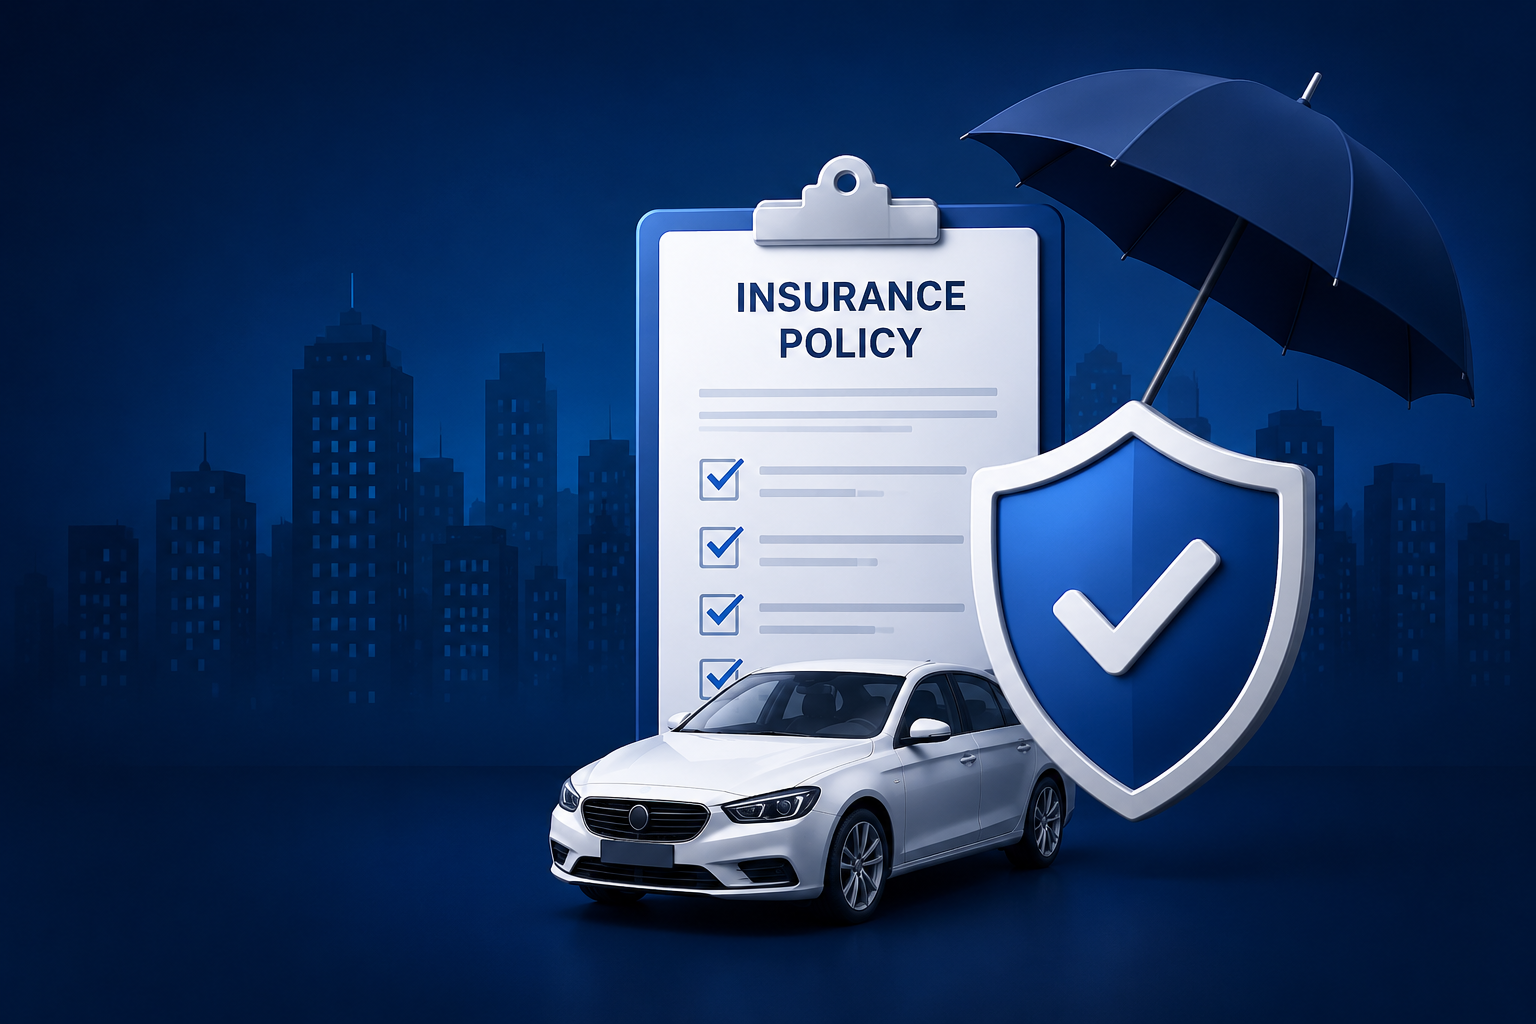
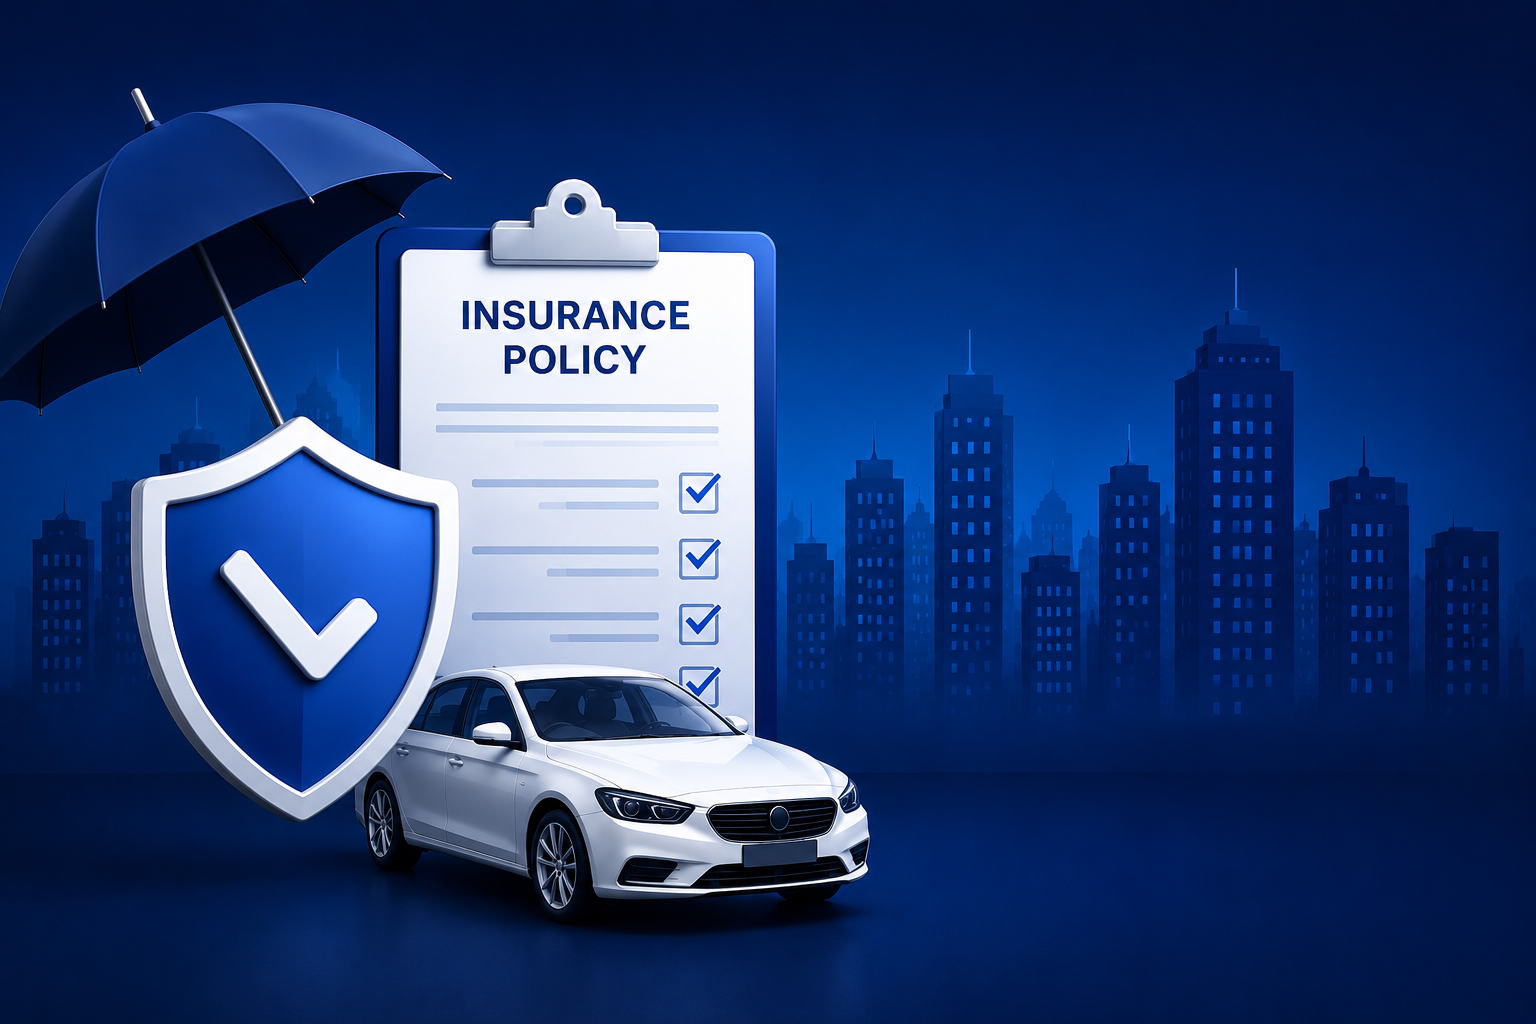
agents page updated

diff --git a/app/(Admin)/Agents/page.tsx b/app/(Admin)/Agents/page.tsx
@@ -1,5 +1,88 @@
-export default function Agents(){
-    return(
-        <div>Agents</div>
+import { IconBell, IconChevronDownFilled, IconMenu2Filled, IconUserFilled, IconZoom } from "@tabler/icons-react";
+
+export default function Agents() {
+    return (
+        <div className="flex flex-col w-full h-full gap-10">
+
+            {/* Navbar */}
+            <div className="flex h-25 items-center place-content-between px-5 border-b-2 border-[#E5E7EB]">
+
+                {/* Name and Menu */}
+                <div className="flex gap-10">
+                    <div className="hover:bg-[#E5E7EB] cursor-pointer rounded-full w-10 h-10 items-center justify-center flex"><IconMenu2Filled /></div>
+                    <div className="flex font-semibold text-lg items-center justify-center">
+                        Name
+                    </div>
+                </div>
+
+                {/* Searchbox, Notification, Account/UserProfile */}
+                <div className="flex gap-10 items-center">
+                    {/* Searchbox */}
+                    <div className="flex border rounded-md h-10 items-center justify-center px-3 border-[#94A3B8]">
+                        <input type="text" placeholder="Search Agents..." className="focus:outline-0" />
+                        <IconZoom stroke={2} size={20} className="cursor-pointer text-[#475569]" />
+                    </div>
+
+                    {/* Notification */}
+                    <div className="flex items-center justify-center w-10 h-10 hover:bg-[#E5E7EB] rounded-full cursor-pointer text-[#475569]"><IconBell stroke={2} /></div>
+
+                    {/* Account/UserProfile */}
+                    <div className="flex gap-2 hover:bg-[#E5E7EB] px-2 py-2 cursor-pointer rounded-md">
+
+                        {/* User Profile */}
+                        <div className="rounded-full overflow-hidden w-12 h-12">
+                            <img src="/Auth-BG.png" alt="Profile" className="w-full h-full object-cover" />
+                        </div>
+
+                        {/* Username and Role */}
+                        <div className="flex flex-col justify-center">
+                            <div className="flex font-semibold text-sm">Username</div>
+                            <div className="flex text-xs">Role</div>
+                        </div>
+
+                        {/* More */}
+                        <div className=" items-center justify-center flex">
+                            <IconChevronDownFilled size={15} />
+                        </div>
+                    </div>
+                </div>
+
+            </div>
+
+            {/* Content */}
+            <div className="flex flex-1">
+                
+                {/* Cards */}
+                <div className="flex gap-10">
+                    {/* Card 1 */}
+                    <div className="flex border border-[#E2E8F0] rounded-lg w-70 h-25 items-center p-3 place-content-between">
+                        <div className="flex flex-col place-content-evenly h-full">
+                            <label className="text-[#0F172A] font-semibold text-sm">Total Agents</label>
+                            <label className="text-[#0F172A] font-bold text-2xl">999</label>
+                        </div>
+
+                        <div className="rounded-xl bg-[#DBEAFE] w-13 h-13 flex items-center justify-center text-[#2563EB]"><IconUserFilled size={30} /></div>
+                    </div>
+                    {/* Card 2 */}
+                    <div className="flex border border-[#E2E8F0] rounded-lg w-70 h-25 items-center p-3 place-content-between">
+                        <div className="flex flex-col place-content-evenly h-full">
+                            <label className="text-[#0F172A] font-semibold text-sm">Active Agents</label>
+                            <label className="text-[#0F172A] font-bold text-2xl">999</label>
+                        </div>
+
+                        <div className="rounded-xl bg-[#DCFCE7] w-13 h-13 flex items-center justify-center text-[#16A34A]"><IconUserFilled size={30} /></div>
+                    </div>
+                    {/* Card 3 */}
+                    <div className="flex border border-[#E2E8F0] rounded-lg w-70 h-25 items-center p-3 place-content-between">
+                        <div className="flex flex-col place-content-evenly h-full">
+                            <label className="text-[#0F172A] font-semibold text-sm">Inactive Agents</label>
+                            <label className="text-[#0F172A] font-bold text-2xl">999</label>
+                        </div>
+
+                        <div className="rounded-xl bg-[#FEE2E2] w-13 h-13 flex items-center justify-center text-[#DC2626]"><IconUserFilled size={30} /></div>
+                    </div>
+                </div>
+            </div>
+        </div>
     )
 }

diff --git a/app/(Admin)/page.tsx b/app/(Admin)/page.tsx
@@ -23,13 +23,13 @@ export default function MainLayout() {
     }
 
     return (
-        <div className="flex gap-20">
-            <div className="flex flex-col gap-2">
-                <div className="">Navbar</div>
-                <div onClick={() => { changeCurrentPage('dashboard') }} className="border border-white">Dashboard</div>
-                <div onClick={() => { changeCurrentPage('agents') }} className="border border-white">Agents</div>
+        <div className="flex w-full min-h-screen bg-[#F8FAFC] text-black">
+            <div className="flex flex-col gap-2 min-w-[20vw] bg-[#021B3A] border-r border-[#12305D] text-white">
+                <div className="">Sidebar</div>
+                <div onClick={() => { changeCurrentPage('dashboard') }} className="border">Dashboard</div>
+                <div onClick={() => { changeCurrentPage('agents') }} className="border">Agents</div>
             </div>
-            <div className="border border-white">{returnCurrentPage()}</div>
+            <div className="px-5 w-full">{returnCurrentPage()}</div>
         </div>
     )
 }

diff --git a/app/auth/page.tsx b/app/auth/page.tsx
@@ -74,7 +74,7 @@ export default function Users() {
             {/* Left Area */}
             <div className="flex flex-1 bg-red-200">
                 <div className="flex w-full h-full">
-                    <img src="/Auth-BG.png" alt="Auth-Background" className="w-full h-full object-cover -scale-x-100" />
+                    <img src="/Auth-BG.png" alt="Auth-Background" className="w-full h-full object-cover" />
                 </div>
             </div>
             {/* Right Area */}